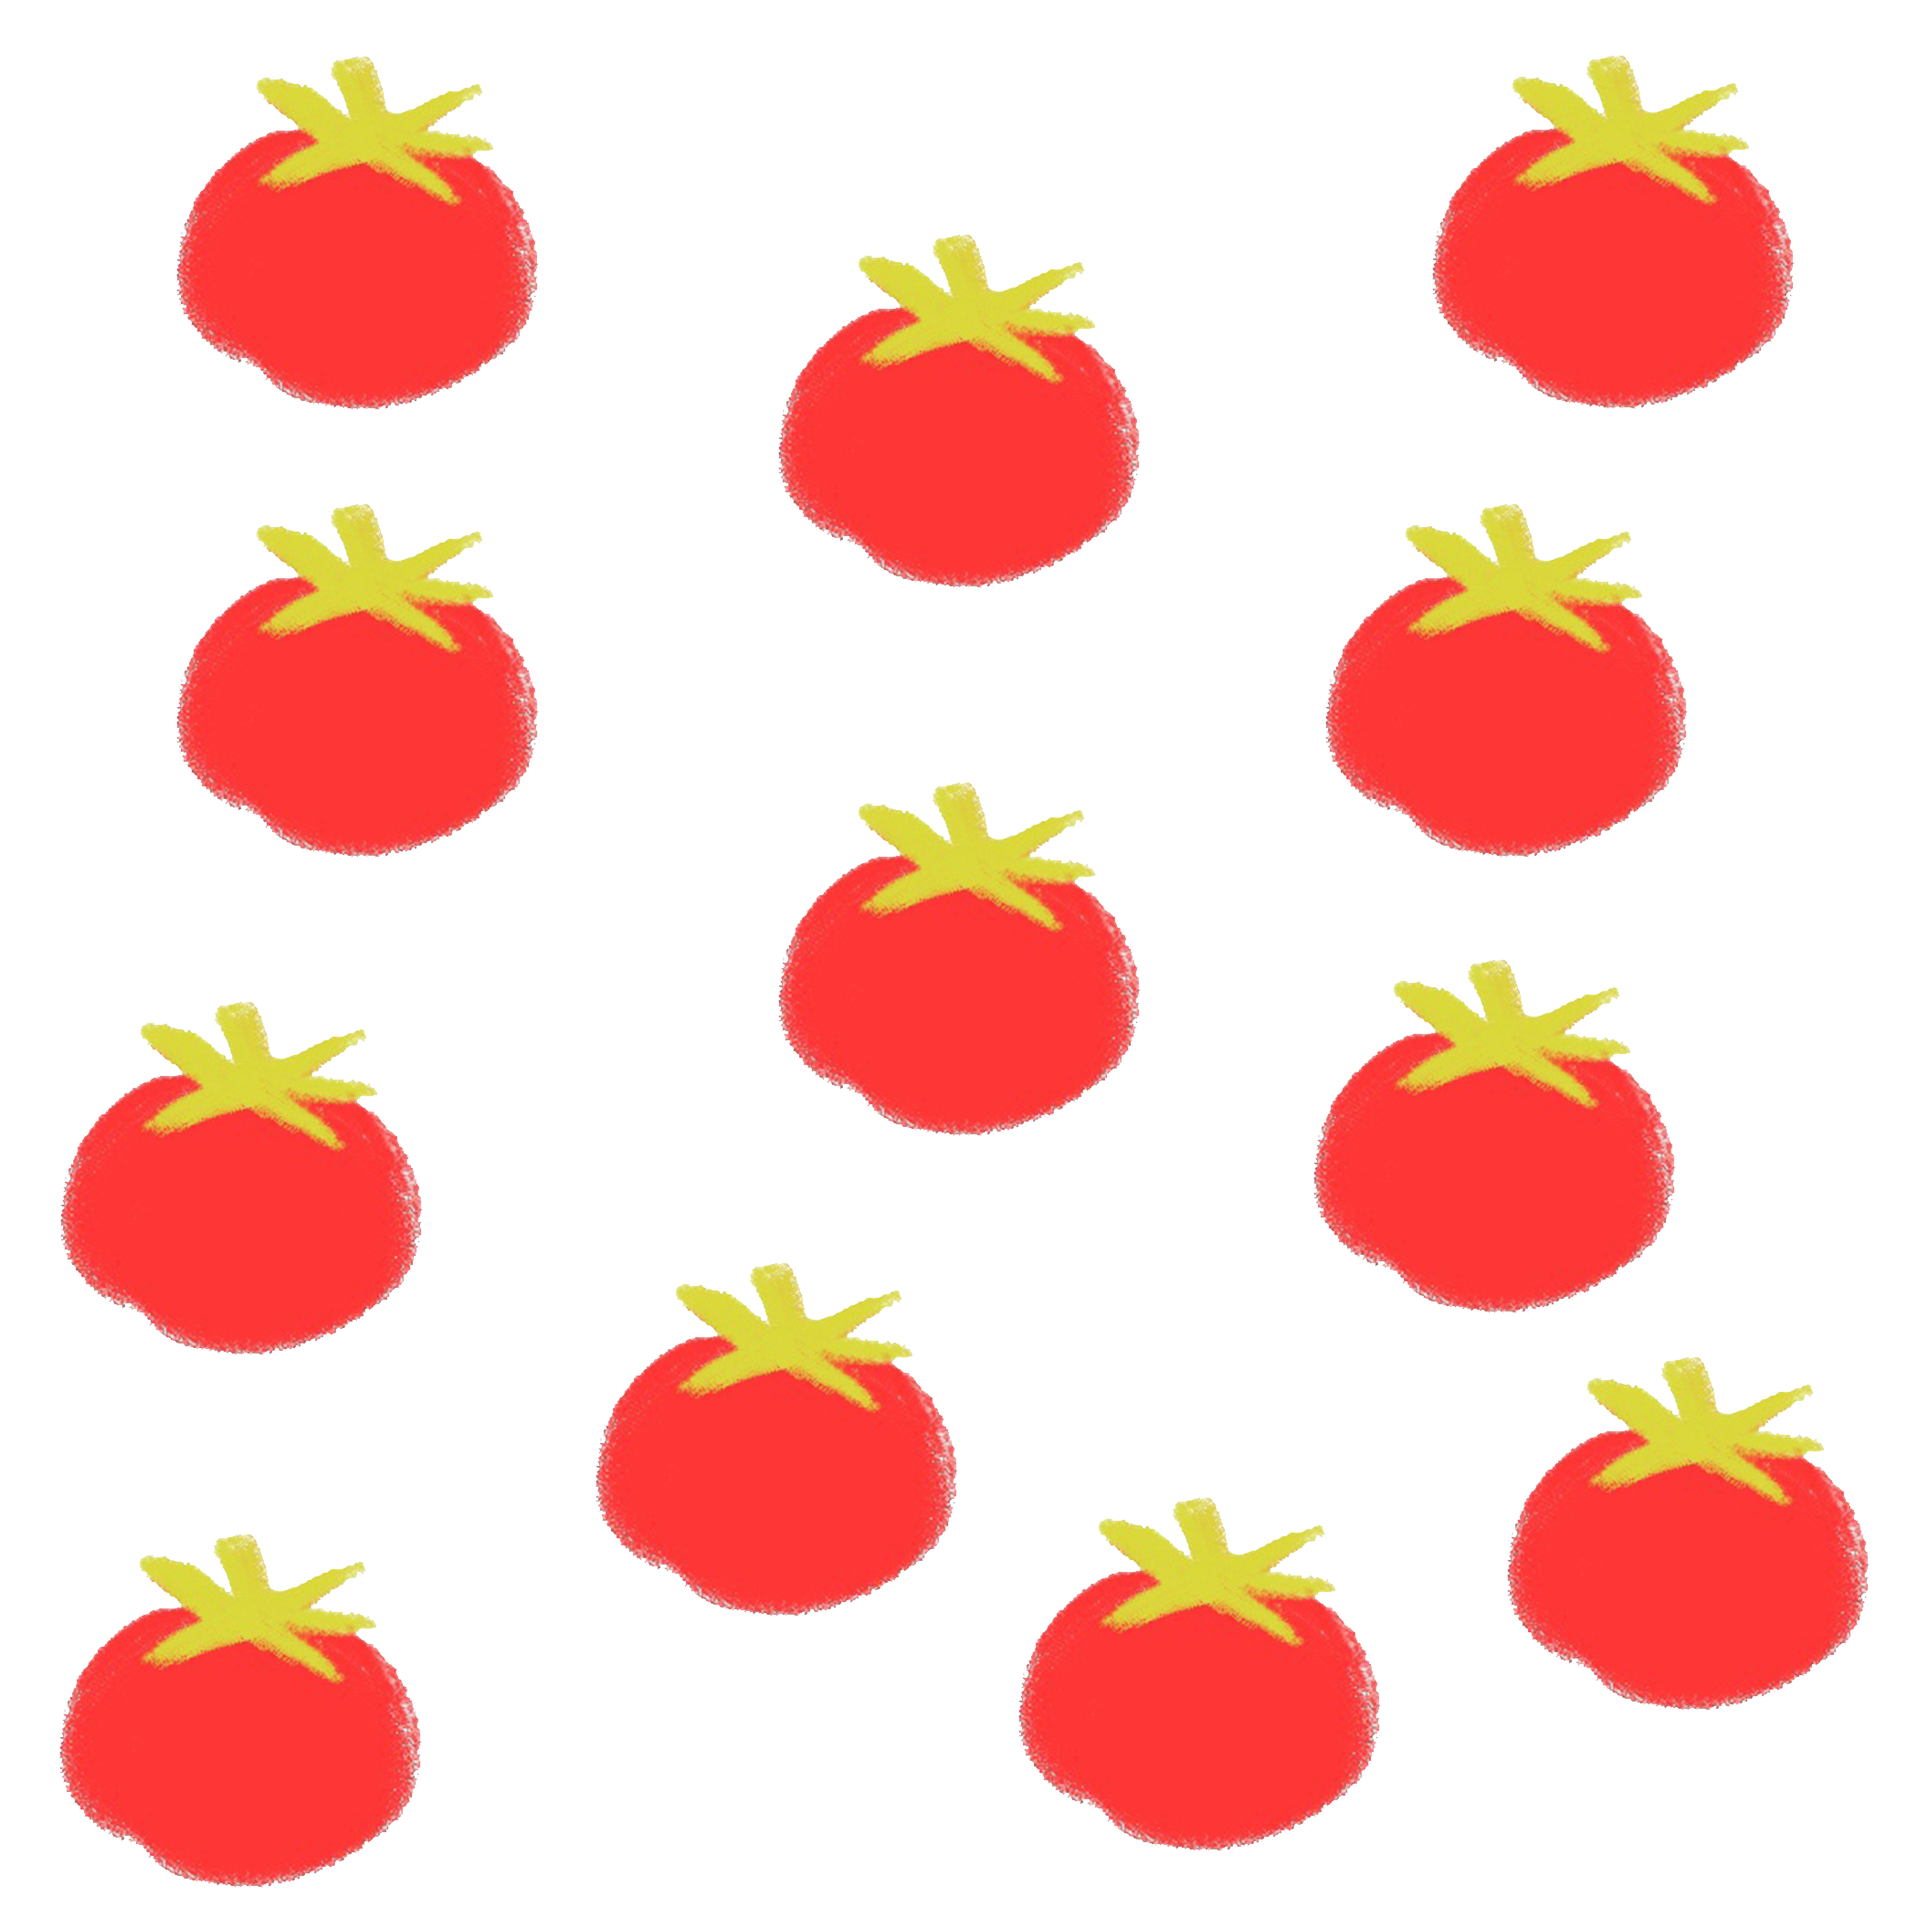
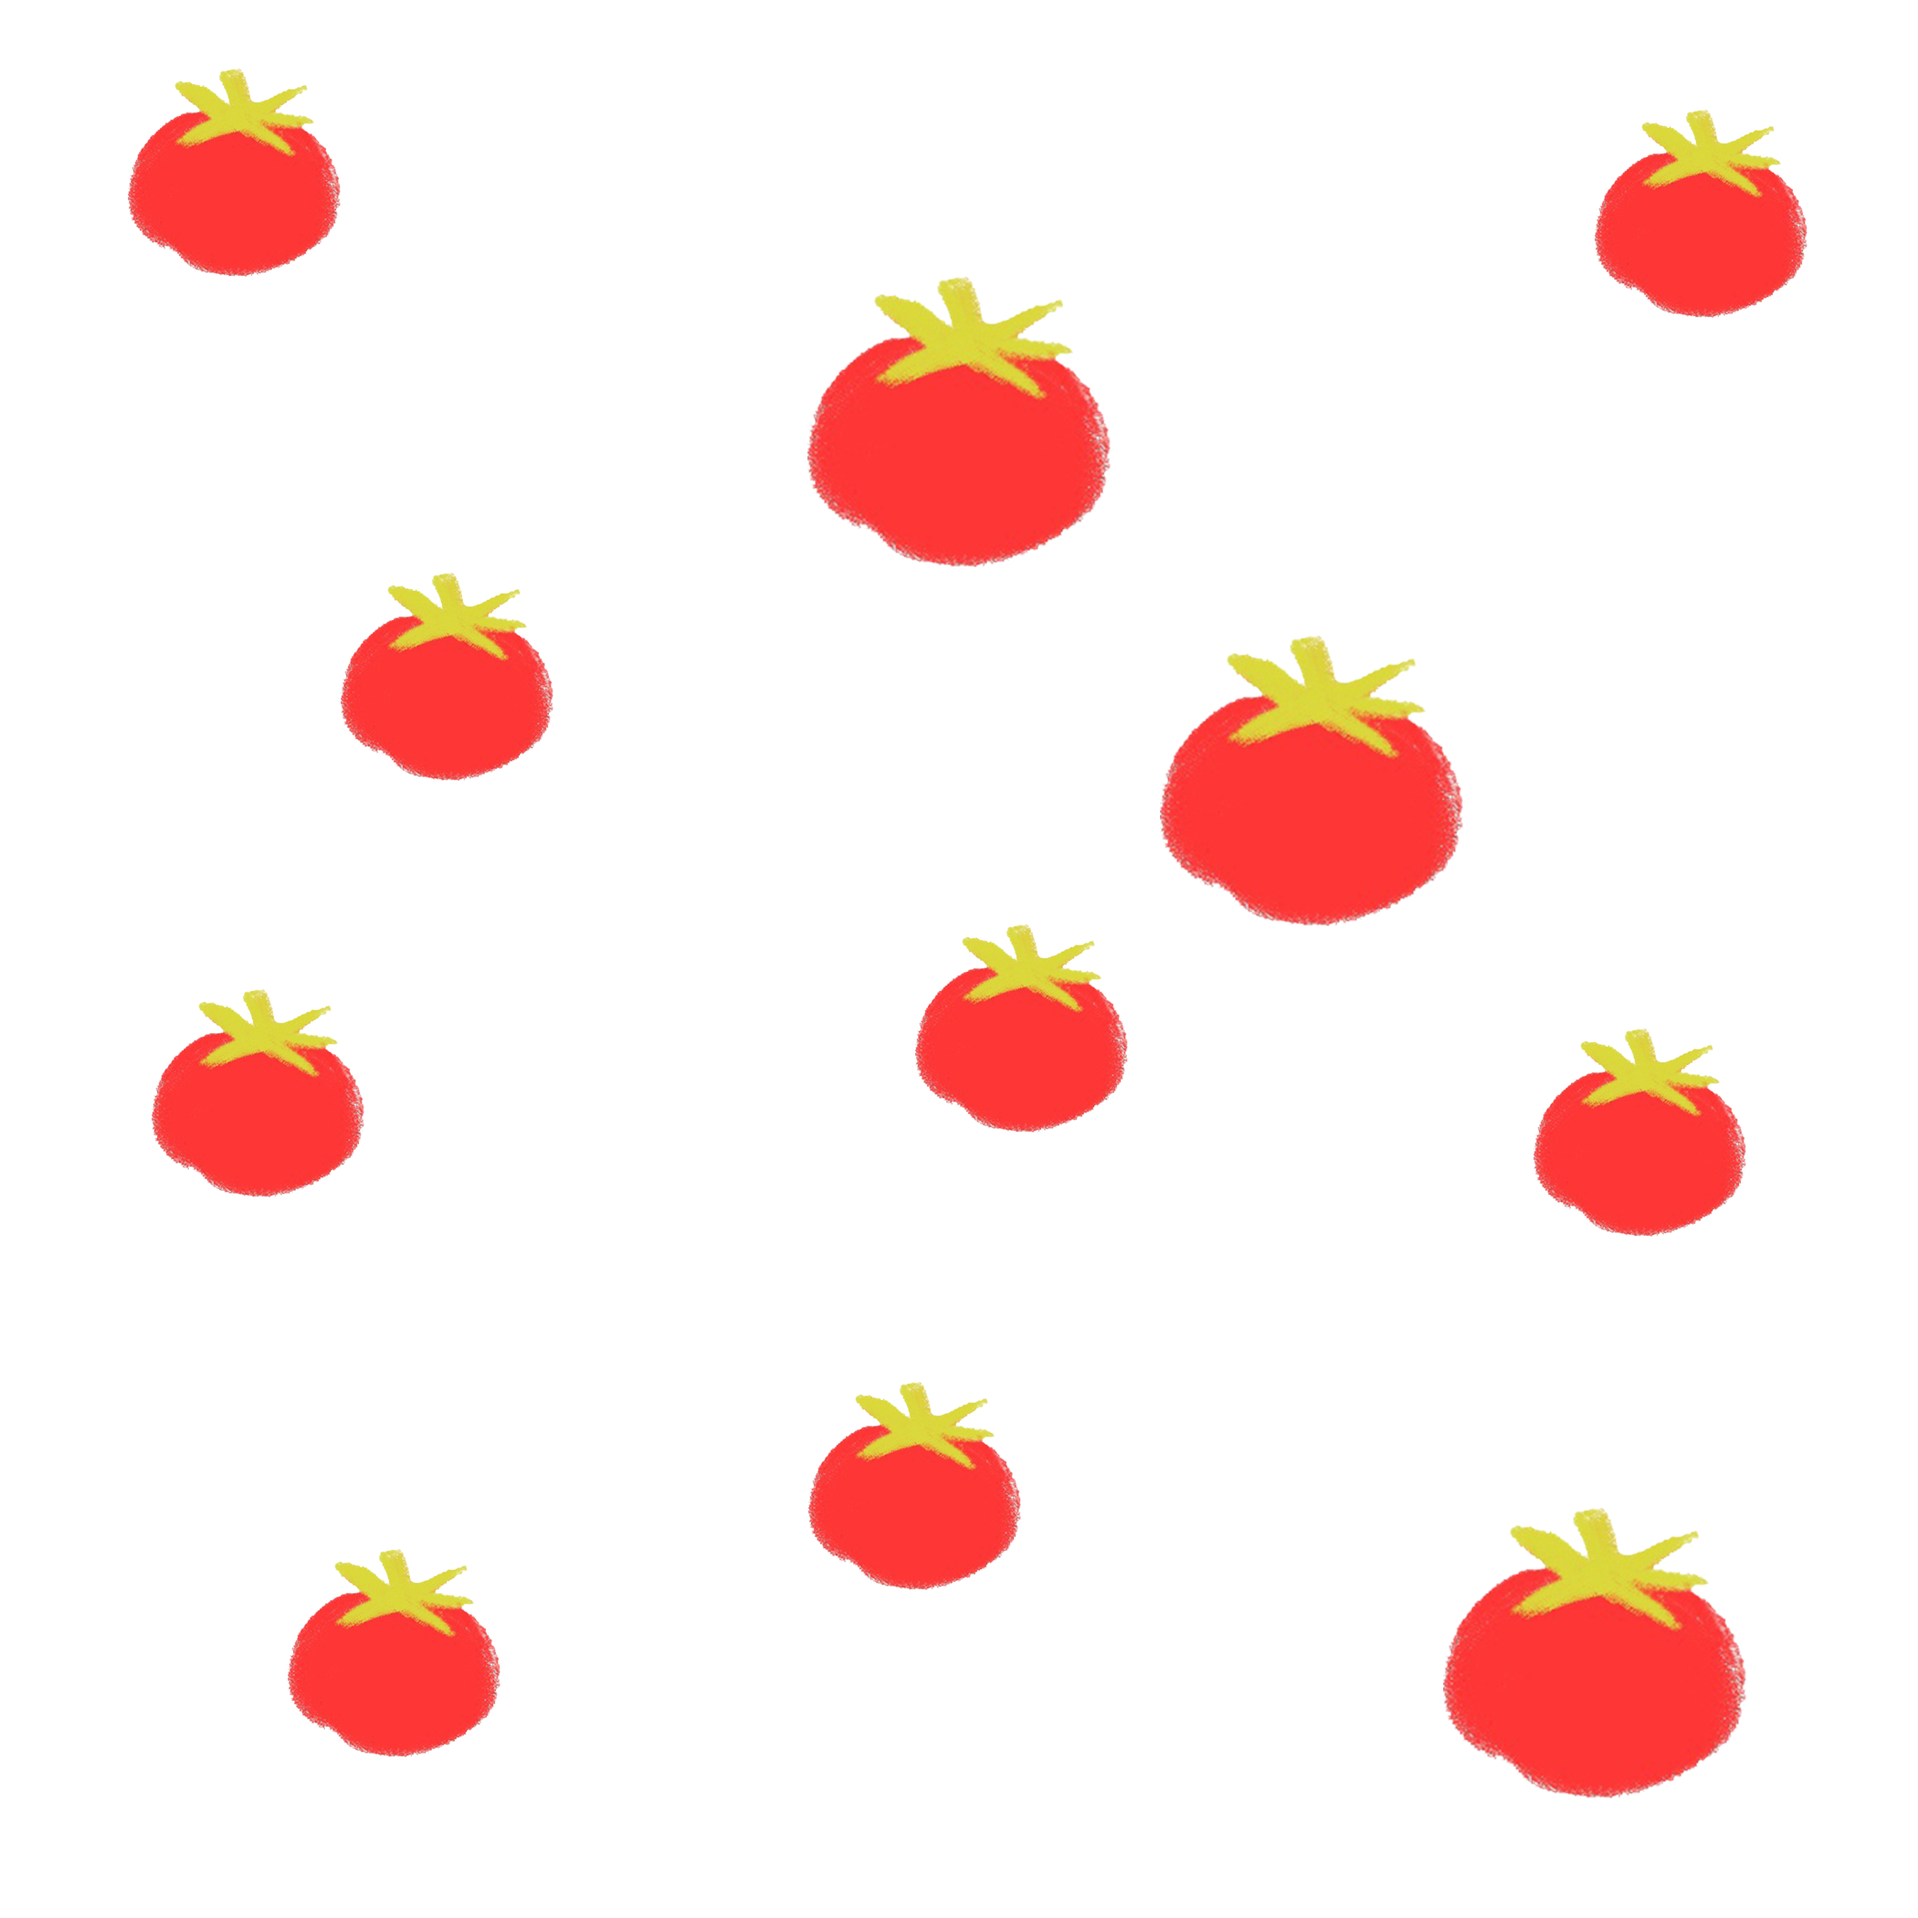
zzz
sss

diff --git a/home.html b/home.html
@@ -181,12 +181,12 @@ height: auto;
 }
 
     
-
 @media screen and (max-width: 700px) {
   .p1 {
     font-size: 20px;
   }
 }
+
 @media screen and (max-width: 600px) {
   .p1 {
     font-size: 15px;
@@ -197,7 +197,11 @@ height: auto;
             background-color: white;
             margin-top: 15px;
             text-align: center;
-        }
+        }@media (max-width: 700px) {
+  .footer {
+    display: none;
+  }
+}
     </style>
 </head>
 <body>
@@ -239,6 +243,7 @@ height: auto;
     <p class="p1"> "토마토에 잘 모른다면 토마토에 대해 한 번 알아볼까요?"   </p>
 
     <div class="content"><a href="about.html"><img src="images/TOm.png" style="width: 100px;"></a></div>
+    
     <div class="footer"> ⓒ2023 Seo Ji-yeon All pictures cannot be copied sithout permission. </div>
 </body>
 <script src="dd.js" defer></script>

diff --git a/cc.html b/cc.html
@@ -18,7 +18,7 @@
     <style>
         body {
     
-          background-image: url(images/bk3.png);
+          background-image: url(images/qorud.png);
           background-repeat: repeat;
         
     
